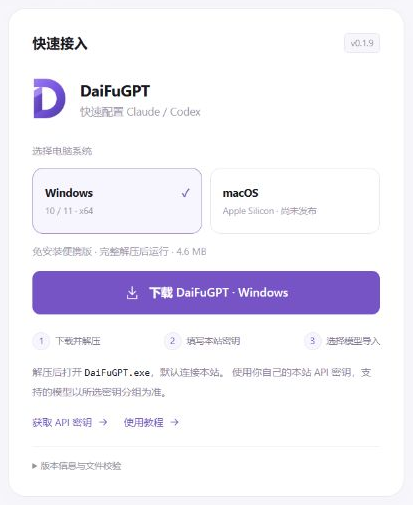
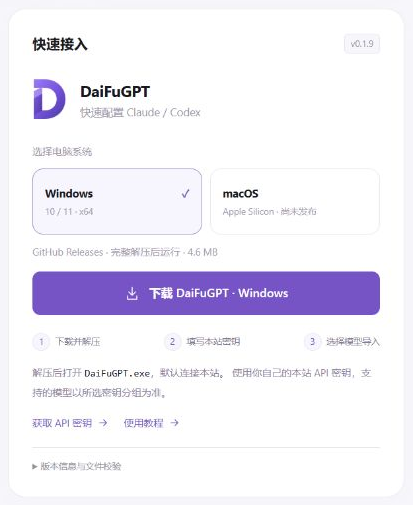
Verify public GitHub downloads and update quick-connect preview

diff --git a/VERIFICATION.md b/VERIFICATION.md
@@ -8,6 +8,7 @@
 - 原项目和第三方许可证保留在发布包中。
 - 已从打包程序中提取并核对紫色大写 D 图标。
 - 本机 HTTP 下载已核对文件名、字节数及 SHA-256。
+- 2026-11-04 已在未登录浏览器中从 GitHub Release 实际下载安装包与校验文件；ZIP 为 4,834,963 字节，SHA-256 与本机原包一致，校验文件内容一致。
 
 ```text
 6714e134d79b2581ad061c574b9bdd99da5cdc5d5b1f23e08ca9214b722c3161  DaiFuGPT.zip
@@ -17,6 +18,5 @@
 
 - 当前衍生构建的全部客户端真实导入、完整对话及工具调用。
 - macOS 原生构建、安装包及运行。
-- GitHub Release 正式发布后的下载链路。
 
 Windows 发布包尚未进行发布者代码签名。上游测试结果不等于本衍生版本已完成同等验证。
